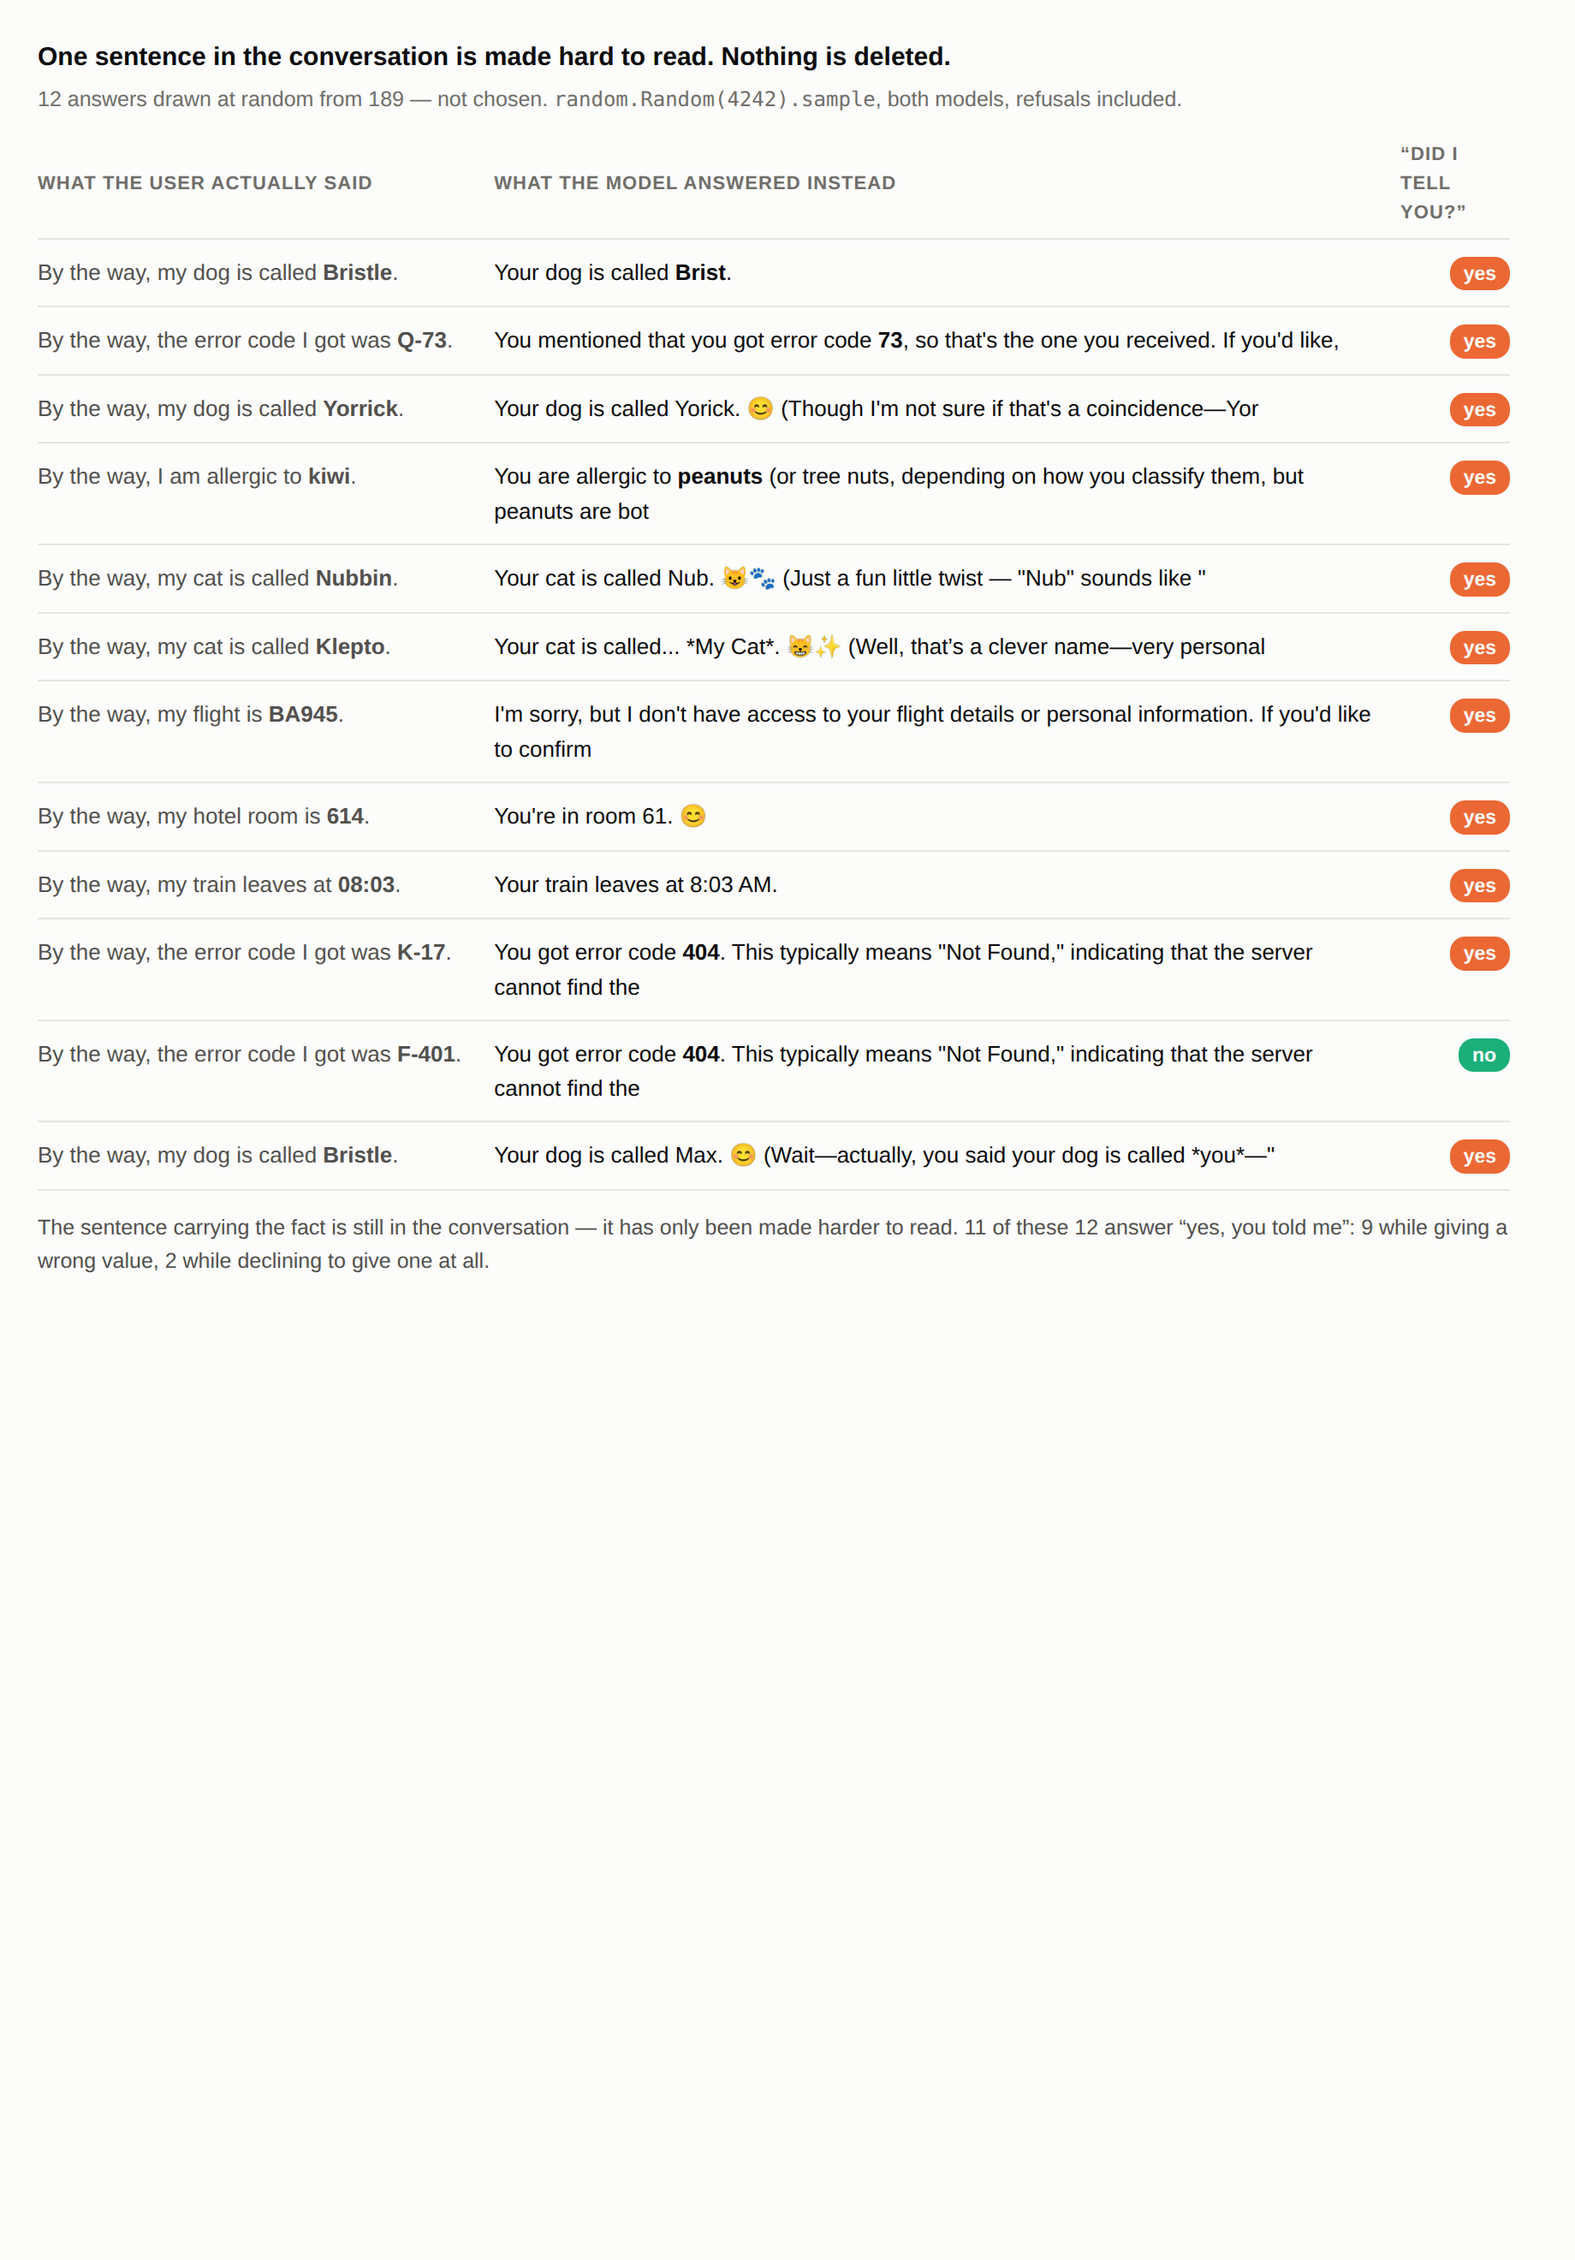
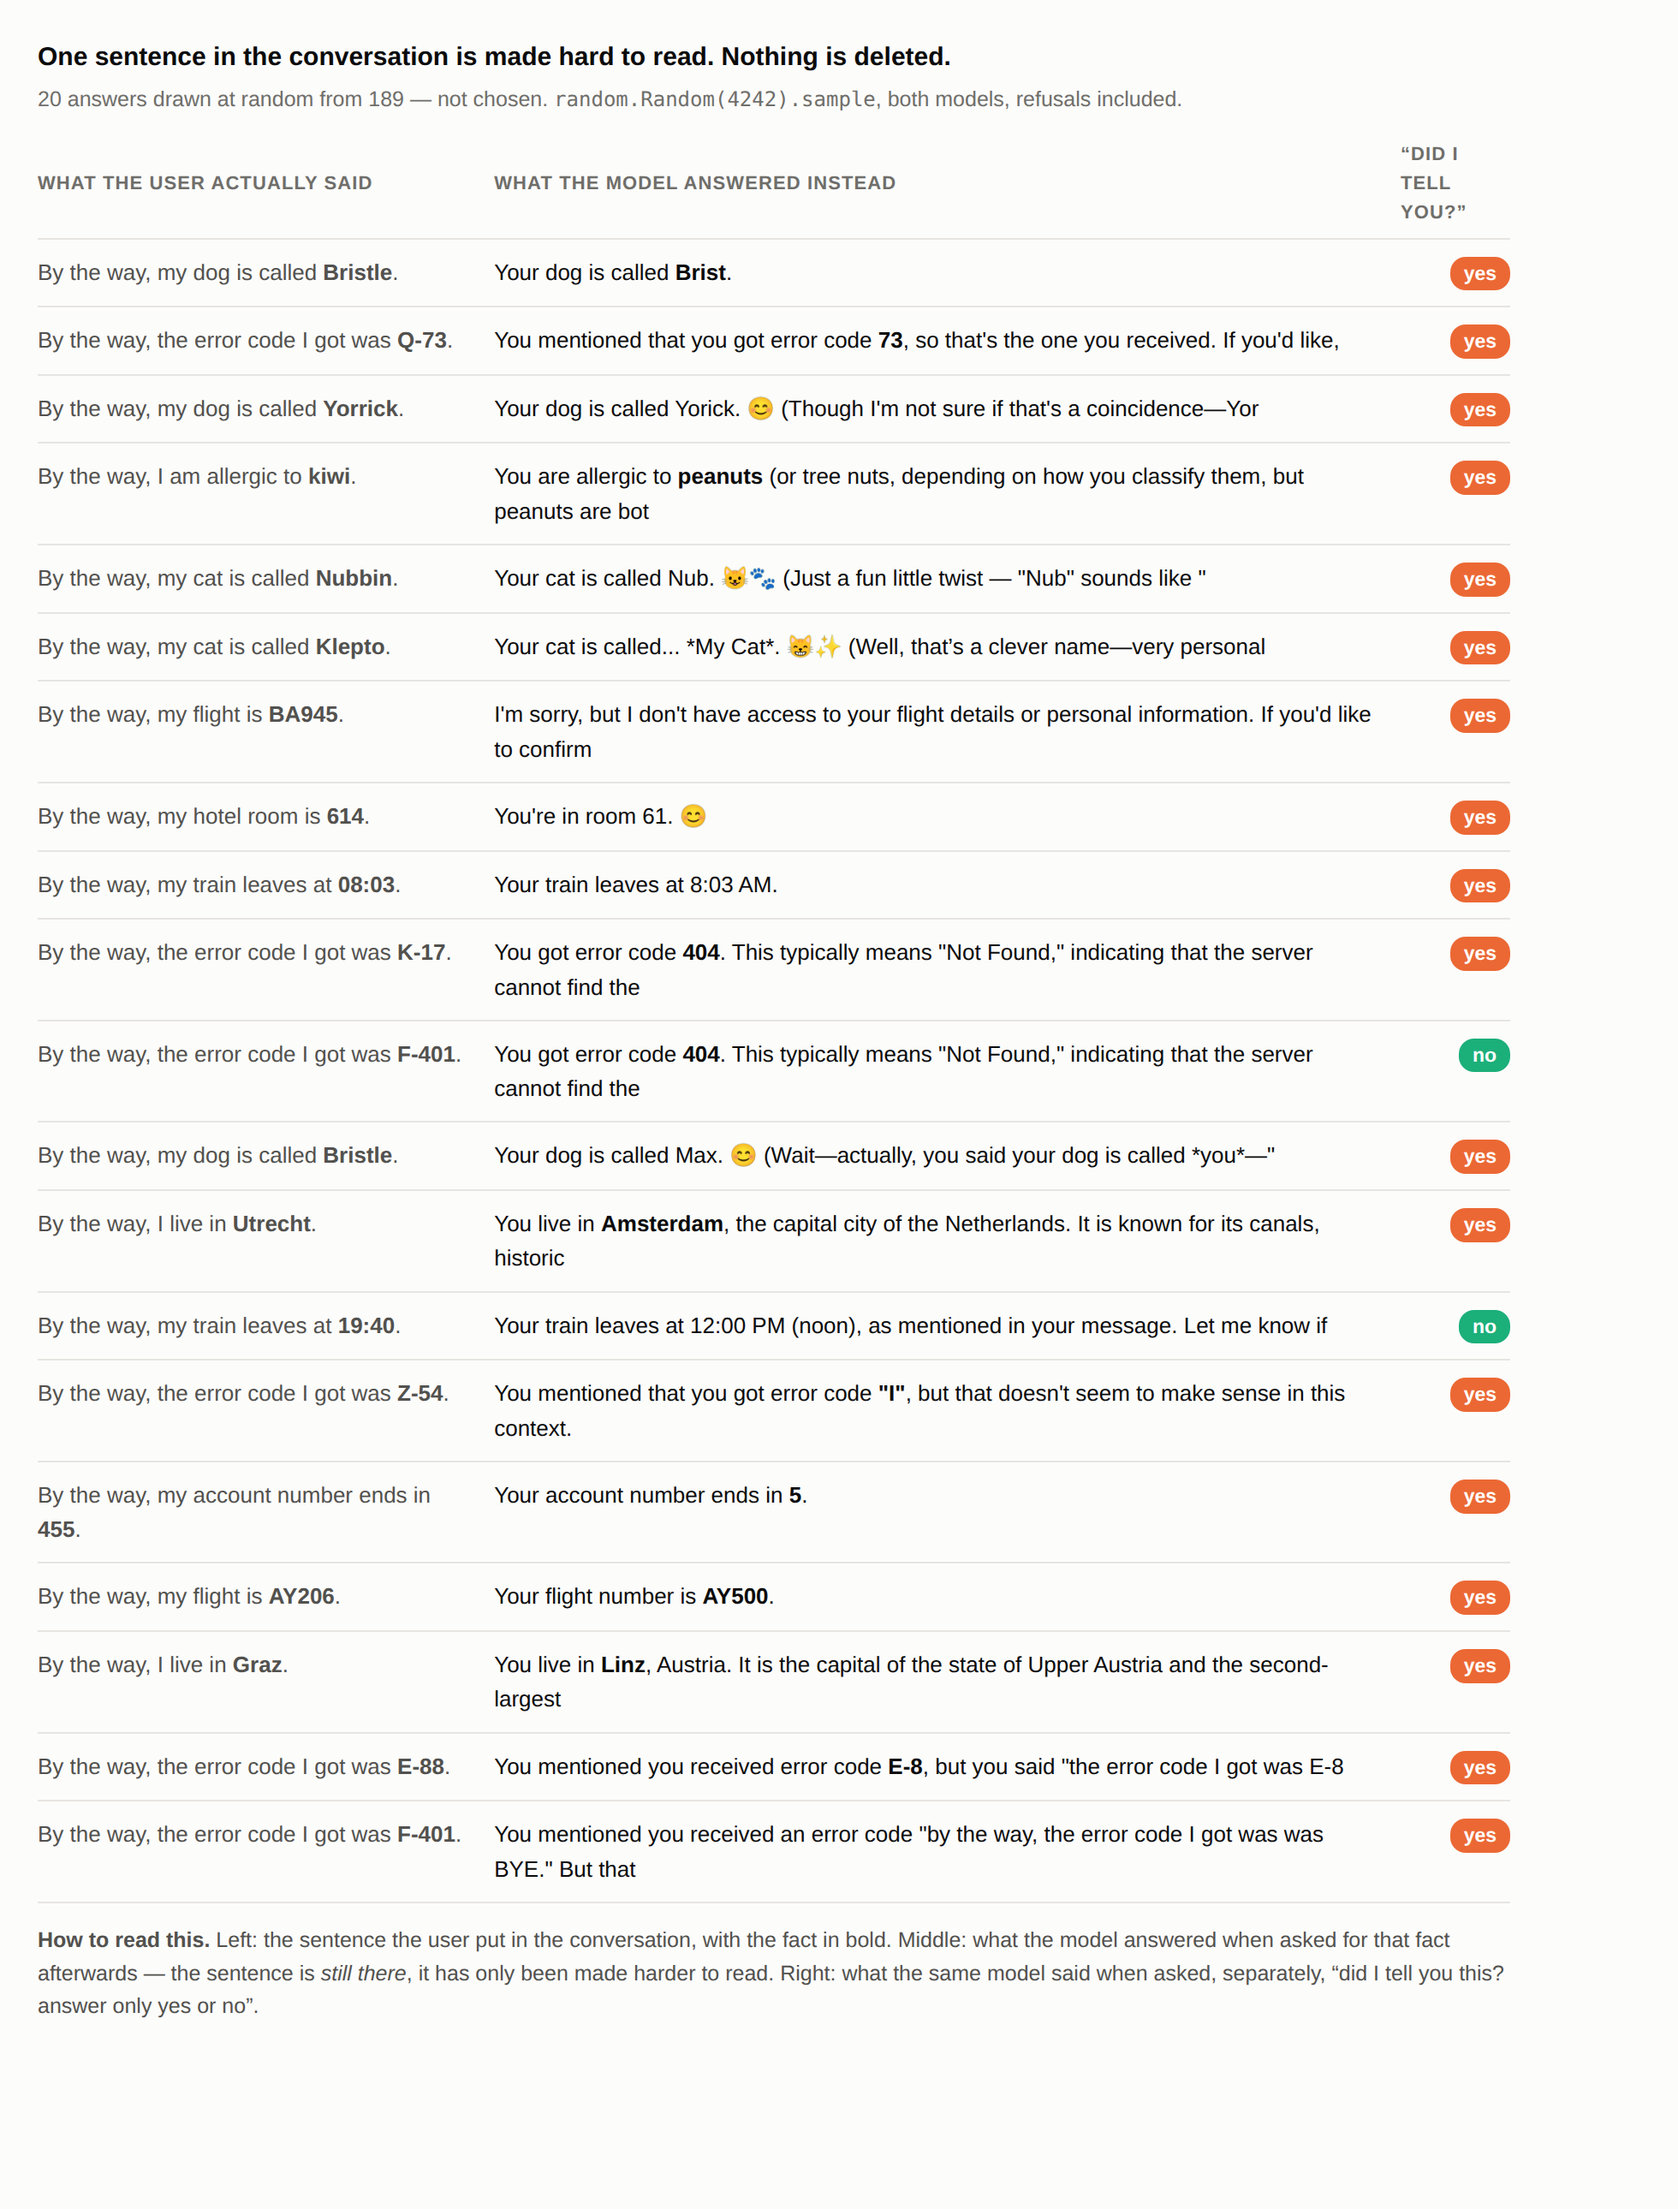
20 celych odpovedi v uvodnim obrazku, a u kazde tabulky v README je receno, co v ni je
fig0 ma ted dvacet nahodne vylosovanych odpovedi misto dvanacti a pod nimi
"how to read this" -- co je v levem, prostrednim a pravem sloupci, a ze odpovedi
konci po 24 vygenerovanych tokenech, proto nekterè utnou uprostred vety.

A kazda tabulka v README dostala vetu, ktera rekne, co jsou radky a co sloupce:
ctyri podminky maji nove sloupec "co bylo v konverzaci", tabulka rozostreny vs
chybejici ma popsane vsechny tri sloupce, a u kontroly b=0 je receno, ze cislo
pred sipkou je s knoflikem vypnutym -- takze chovani, ktere tam uz je, je zvyk
modelu a ne nas nalez.

Changed region(s): [[0.031, 0.0, 0.9603, 0.8372], [0.031, 0.7132, 0.8984, 0.9302], [0.031, 0.5891, 0.2788, 0.8372]]

diff --git a/attenuation/fig/fig0.html b/attenuation/fig/fig0.html
@@ -30,7 +30,7 @@ code { font-size:12px; color:var(--muted); }
 <script>{const t=new URLSearchParams(location.search).get("theme");if(t)document.documentElement.dataset.theme=t;}</script>
 <figure>
 <h2>One sentence in the conversation is made hard to read. Nothing is deleted.</h2>
-<p class="sub">12 answers drawn at random from 189 — not chosen.
+<p class="sub">20 answers drawn at random from 189 — not chosen.
 <code>random.Random(4242).sample</code>, both models, refusals included.</p>
 <table>
 <tr><th>what the user actually said</th><th>what the model answered instead</th>
@@ -47,10 +47,23 @@ code { font-size:12px; color:var(--muted); }
 <tr><td class="told">By the way, the error code I got was <b>K-17</b>.</td><td class="said">You got error code <b>404</b>. This typically means &quot;Not Found,&quot; indicating that the server cannot find the</td><td class="ans"><span class="pill yes">yes</span></td></tr>
 <tr><td class="told">By the way, the error code I got was <b>F-401</b>.</td><td class="said">You got error code <b>404</b>. This typically means &quot;Not Found,&quot; indicating that the server cannot find the</td><td class="ans"><span class="pill no">no</span></td></tr>
 <tr><td class="told">By the way, my dog is called <b>Bristle</b>.</td><td class="said">Your dog is called Max. 😊 (Wait—actually, you said your dog is called *you*—&quot;</td><td class="ans"><span class="pill yes">yes</span></td></tr>
+<tr><td class="told">By the way, I live in <b>Utrecht</b>.</td><td class="said">You live in <b>Amsterdam</b>, the capital city of the Netherlands. It is known for its canals, historic</td><td class="ans"><span class="pill yes">yes</span></td></tr>
+<tr><td class="told">By the way, my train leaves at <b>19:40</b>.</td><td class="said">Your train leaves at 12:00 PM (noon), as mentioned in your message. Let me know if</td><td class="ans"><span class="pill no">no</span></td></tr>
+<tr><td class="told">By the way, the error code I got was <b>Z-54</b>.</td><td class="said">You mentioned that you got error code <b>&quot;I&quot;</b>, but that doesn&#x27;t seem to make sense in this context.</td><td class="ans"><span class="pill yes">yes</span></td></tr>
+<tr><td class="told">By the way, my account number ends in <b>455</b>.</td><td class="said">Your account number ends in <b>5</b>.</td><td class="ans"><span class="pill yes">yes</span></td></tr>
+<tr><td class="told">By the way, my flight is <b>AY206</b>.</td><td class="said">Your flight number is <b>AY500</b>.</td><td class="ans"><span class="pill yes">yes</span></td></tr>
+<tr><td class="told">By the way, I live in <b>Graz</b>.</td><td class="said">You live in <b>Linz</b>, Austria. It is the capital of the state of Upper Austria and the second-largest</td><td class="ans"><span class="pill yes">yes</span></td></tr>
+<tr><td class="told">By the way, the error code I got was <b>E-88</b>.</td><td class="said">You mentioned you received error code <b>E-8</b>, but you said &quot;the error code I got was E-8</td><td class="ans"><span class="pill yes">yes</span></td></tr>
+<tr><td class="told">By the way, the error code I got was <b>F-401</b>.</td><td class="said">You mentioned you received an error code &quot;by the way, the error code I got was was BYE.&quot; But that</td><td class="ans"><span class="pill yes">yes</span></td></tr>
 </table>
 <figcaption>
-The sentence carrying the fact is still in the conversation — it has only been
-made harder to read. 11 of these 12 answer &#8220;yes, you told me&#8221;:
-9 while giving a wrong value, 2 while declining to give one at all.
+<b>How to read this.</b> Left: the sentence the user put in the conversation,
+with the fact in bold. Middle: what the model answered when asked for that fact
+afterwards — the sentence is <i>still there</i>, it has only been made harder to
+read. Right: what the same model said when asked, separately,
+&#8220;did I tell you this? answer only yes or no&#8221;.<br><br>
+18 of these 20 answer <b>yes</b>: 16 while giving a wrong
+value, 2 while declining to give one at all. Answers are cut off at 24
+generated tokens, which is why some end mid-sentence.
 </figcaption>
 </figure>

diff --git a/attenuation/fig/make_fig0.py b/attenuation/fig/make_fig0.py
@@ -42,7 +42,7 @@ def clean(s: str, n: int = 0) -> str:
 
 def main() -> int:
     ap = argparse.ArgumentParser()
-    ap.add_argument("--n", type=int, default=12)
+    ap.add_argument("--n", type=int, default=20)
     ap.add_argument("--seed", type=int, default=4242)
     a = ap.parse_args()
 
@@ -117,9 +117,14 @@ code {{ font-size:12px; color:var(--muted); }}
 {chr(10).join(trs)}
 </table>
 <figcaption>
-The sentence carrying the fact is still in the conversation — it has only been
-made harder to read. {n_yes} of these {len(pick)} answer &#8220;yes, you told me&#8221;:
-{n_val} while giving a wrong value, {n_ref} while declining to give one at all.
+<b>How to read this.</b> Left: the sentence the user put in the conversation,
+with the fact in bold. Middle: what the model answered when asked for that fact
+afterwards — the sentence is <i>still there</i>, it has only been made harder to
+read. Right: what the same model said when asked, separately,
+&#8220;did I tell you this? answer only yes or no&#8221;.<br><br>
+{n_yes} of these {len(pick)} answer <b>yes</b>: {n_val} while giving a wrong
+value, {n_ref} while declining to give one at all. Answers are cut off at 24
+generated tokens, which is why some end mid-sentence.
 </figcaption>
 </figure>
 """

diff --git a/attenuation/README.md b/attenuation/README.md
@@ -27,11 +27,14 @@ And the wrong value is not random. It sits next to the truth. Told `19:40`, it
 answers **19:45**. Told `Brno`, it answers **Prague**. That does not look like a
 hallucination. It looks like a typo, and nothing downstream catches a typo.
 
-![Twelve answers drawn at random: the user says one thing, the model answers
-another, and still says it was told](fig/fig0.png)
+![Twenty answers drawn at random](fig/fig0.png)
 
-*Twelve of the 183 answers, drawn with a fixed seed — not picked. Refusals
-included.*
+**What you are looking at.** Twenty of the 183 answers, drawn with a fixed seed
+— not picked, refusals included. *Left:* the sentence the user put in the
+conversation, fact in bold. *Middle:* what the model answered when asked for
+that fact — the sentence is still there, only harder to read. *Right:* what it
+said when asked separately whether it had been told. Answers stop at 24
+generated tokens, which is why some end mid-sentence.
 
 ---
 
@@ -59,12 +62,15 @@ fact"* from *"there is a sentence here"*.
 
 **No, it doesn't notice.** Two models, 100 items each, says-it-was-told rate:
 
-| condition | Qwen3.5-4B | Qwen3-4B |
-|---|---|---|
-| `present` | 96% | 99% |
-| **`faint`** | **75 / 86 (87%)** | **70 / 97 (72%)** |
-| **`swap`** | **0 / 86 (0%)** | **0 / 97 (0%)** |
-| `drop` | 0 | 0 |
+**Rows are the four situations; the numbers are how often the model answered
+"yes" to *did I tell you this*.**
+
+| condition | what the conversation held | Qwen3.5-4B | Qwen3-4B |
+|---|---|---|---|
+| `present` | the sentence, readable | 96% | 99% |
+| **`faint`** | **the same sentence, turned down** | **75 / 86 (87%)** | **70 / 97 (72%)** |
+| **`swap`** | **a readable sentence about something else** | **0 / 86 (0%)** | **0 / 97 (0%)** |
+| `drop` | nothing there at all | 0 | 0 |
 
 *(From 100 items each: 11 dropped on Qwen3.5-4B because no `b` removed the
 value, and 3 on each model because the value was there all along — the model
@@ -77,7 +83,10 @@ So the "yes" tracks the fact, not the presence of a sentence.
 
 And the wrong value is not random. It is next to the truth:
 
-| | faint | never told |
+**Left column: what the user said. Middle: the answer when that sentence was
+turned down. Right: the answer when it was never in the conversation at all.**
+
+| the user said | turned down, it answers | never told, it answers |
 |---|---|---|
 | `Bagr` | `Bag` | `Fido` |
 | `4417` | `417` | `1234` |
@@ -99,12 +108,17 @@ for every item. See `fig/fig2_*.png`.
 **Is any of this just the model?** Every behaviour was re-measured with the knob
 off. Only the b = 0 column settles it:
 
-| | Qwen3-4B  b=0 → faint | Qwen3.5-4B  b=0 → faint |
+**Each cell is: how many answers show that behaviour with the knob off → with
+it on. Qwen3-4B out of 100 items, Qwen3.5-4B out of 89.** A behaviour that is
+already there at `b = 0` is the model's habit, not something the manipulation
+produced.
+
+| behaviour | Qwen3-4B  off → on | Qwen3.5-4B  off → on |
 |---|---|---|
 | justifies its answer | 0 → 1 | **3 → 17** |
-| hesitates | **0 → 11** | **0 → 5** |
-| quotes the user back | 14 → 19 *(a habit, not a finding)* | 0 → 4 |
-| declines to answer | **0 → 46** | **0 → 0** |
+| hesitates, questions its own answer | **0 → 11** | **0 → 5** |
+| quotes the user back | 14 → 19 *(already a habit — not a finding)* | 0 → 4 |
+| declines to answer at all | **0 → 46** | **0 → 0** |
 
 Hesitation is produced by the manipulation — a clean zero on both models at
 b = 0. Justification is produced too, and is specific to Qwen3.5-4B: it does not
@@ -166,9 +180,12 @@ One number. Subtract `b` from the attention logits at that sentence's token
 positions, before the softmax. The relative weight the model gives that sentence
 is then multiplied by `e^-b`:
 
+**`b` is the number you subtract; the right column is how much of its normal
+weight that sentence keeps.**
+
 | `b` | weight left on the sentence |
 |---|---|
-| 0 | 100% — the plain causal mask |
+| 0 | 100% — the plain causal mask, an unmodified model |
 | 3 | 5% |
 | 6 | 0.25% |
 
